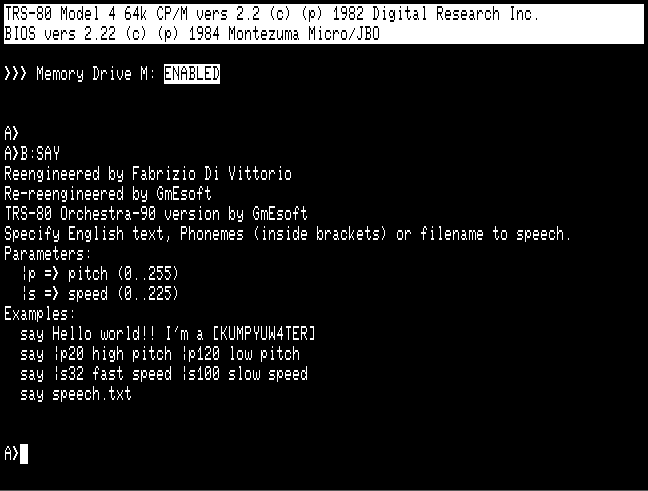
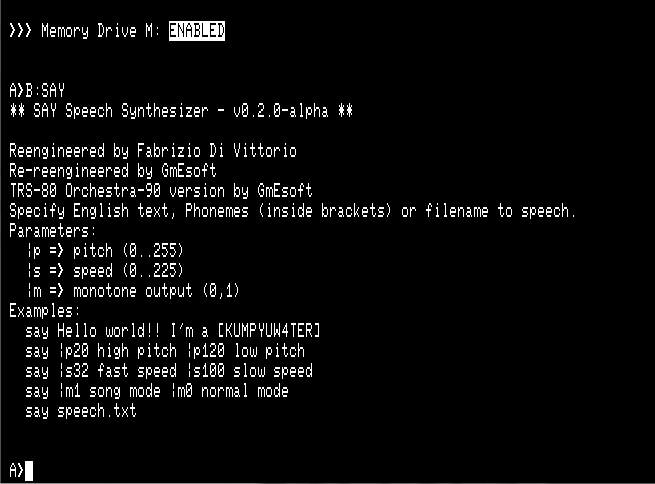
v0.2.0-alpha: added echo "|e1" and debug "|d1" parameters to echo input characters and display the phonemes string.

diff --git a/README.md b/README.md
@@ -4,6 +4,8 @@ Say
 S.A.M.-based text-to-speech voice synthesizer,<br>for TRS-80 CP/M and LS-DOS 6 and Orchestra-90
 -----------------------------------------------------------------------------------------------
 
+Version 0.2.0-alpha
+
 ### Description
 
 This is a S.A.M.-based text-to-speech voice synthesizer for CP/M and LS-DOS 6.3. Adapted to work on the TRS-80 
@@ -17,6 +19,11 @@ With a terminate-and-stay-resident version for LS-DOS 6 (SAY/DVR).
 
 To be assembled using ZMAC by [George Phillips](http://48k.ca) (http://48k.ca/zmac.html). Produces a core-image-file that will be 
 loaded by CP/M at 0100H, or a /CMD file that will be loaded by LS-DOS 6.3.
+
+v0.2.0-alpha adds the following features:
+- `|e1 ` flag to echo the input (`|e0 ` to disable it);
+- `|d1 ` flag to echo the phonemes string (`|e0 ` to disable it);
+- in case of error in the phonemes string, display the string with the position where the error was found.
 
 ### CP/M Executable Version:
 
